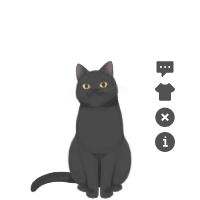
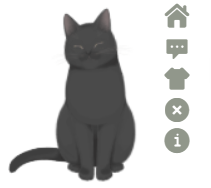
feat: add home btn and change show btn's style

diff --git a/bin/assets/iconfont/iconfont.css b/bin/assets/iconfont/iconfont.css
@@ -1,10 +1,10 @@
 @font-face {font-family: "iconfont";
-  src: url('iconfont.eot?t=1571130790992'); /* IE9 */
-  src: url('iconfont.eot?t=1571130790992#iefix') format('embedded-opentype'), /* IE6-IE8 */
[1 lines of base64/hex data omitted]
-  url('iconfont.woff?t=1571130790992') format('woff'),
-  url('iconfont.ttf?t=1571130790992') format('truetype'), /* chrome, firefox, opera, Safari, Android, iOS 4.2+ */
-  url('iconfont.svg?t=1571130790992#iconfont') format('svg'); /* iOS 4.1- */
+  src: url('iconfont.eot?t=1571317628085'); /* IE9 */
+  src: url('iconfont.eot?t=1571317628085#iefix') format('embedded-opentype'), /* IE6-IE8 */
[1 lines of base64/hex data omitted]
+  url('iconfont.woff?t=1571317628085') format('woff'),
+  url('iconfont.ttf?t=1571317628085') format('truetype'), /* chrome, firefox, opera, Safari, Android, iOS 4.2+ */
+  url('iconfont.svg?t=1571317628085#iconfont') format('svg'); /* iOS 4.1- */
 }
 
 .iconfont {
@@ -13,6 +13,10 @@
   font-style: normal;
   -webkit-font-smoothing: antialiased;
   -moz-osx-font-smoothing: grayscale;
+}
+
+.icon-ban-home:before {
+  content: "\e626";
 }
 
 .icon-aliicon-copy:before {

diff --git a/bin/KanBanNiang.vue b/bin/KanBanNiang.vue
@@ -2,9 +2,10 @@
   <div class="kanbanniang">
     <div class="banniang-container" v-show="isLoaded">
       <div class="messageBox" :style="messageStyle" v-show="isShowMessageBox">
-        {{ message || 'welcome to '+ $title }}
+        {{ message || '欢迎来到 ' + $site.title }}
       </div>
       <div class="operation" @mouseenter="isShowMessageBox = true" @mouseleave="isShowMessageBox = false">
+        <i class="iconfont icon-ban-home ban-home" @click="goHome" @mouseenter="hoverGoHome" @mouseleave="resetMessage"></i>
         <i class="iconfont icon-aliicon-copy message"></i>
         <i class="iconfont icon-theme skin" @click="changeTheme" @mouseenter="hoverChangeTheme" @mouseleave="resetMessage"></i>
         <i class="iconfont icon-close close" @click="closeBanNiang" @mouseenter="hoverCloseBanNiang" @mouseleave="resetMessage"></i>
@@ -73,6 +74,14 @@ export default {
     this.initBanNiang()
   },
   methods: {
+    goHome () {
+      if (this.$route.path !== '/') {
+        this.$router.push('/')
+      }
+    },
+    hoverGoHome () {
+      this.message = '心里的花，我想要带你回家。'
+    },
     hoverChangeTheme () {
       this.message = '好吧，希望你能喜欢我的其他小伙伴。'
     },
@@ -143,14 +152,16 @@ export default {
 @require './assets/iconfont/iconfont.css'
   .showBanNiang
     position fixed
-    right 60px
-    bottom 6.4rem
-    background-color lighten($accentColor, 50%)
-    color $textColor
+    right 70px
+    bottom 6rem
+    background-color #fff
+    color $accentColor
     width 48px
+    height 20px
     padding 10px
-    opacity 0.5
     cursor pointer
+    box-shadow 0 9px 17px 0 rgba(0,0,0,0.2)
+    border-radius 4px
   .banniang-container
     position fixed
     right 50px
@@ -176,22 +187,26 @@ export default {
         color lighten($textColor, 50%)
         &:hover
           color lighten($accentColor, 50%)
-      .message
+      .ban-home
         position fixed
         right 90px
         bottom 140px
-      .skin
+      .message
         position fixed
         right 90px
         bottom 115px
-      .close
+      .skin
         position fixed
         right 90px
         bottom 90px
-      .info
+      .close
         position fixed
         right 90px
         bottom 65px
+      .info
+        position fixed
+        right 90px
+        bottom 40px
 
     #banniang
       z-index 99999
